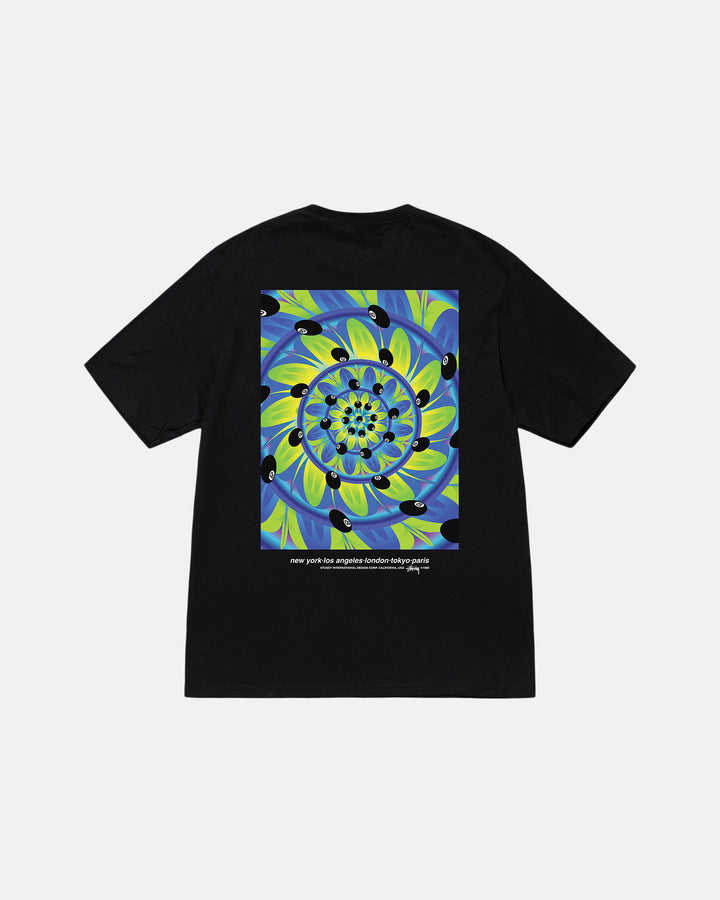
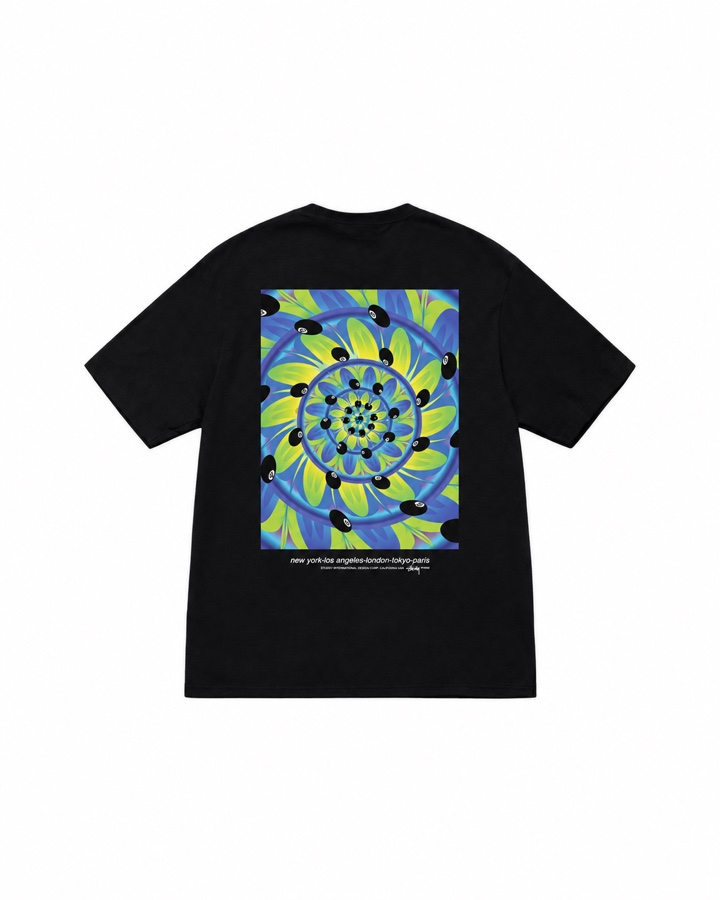
use white backgrounds for stussy product photos

Changed region(s): [[0.3361, 0.3111, 0.6417, 0.6533]]

diff --git a/wardrobe.html b/wardrobe.html
@@ -448,7 +448,7 @@
         <span class="wardrobe-name">Silently, Hwyl</span>
       </a>
       <a class="wardrobe-card" data-category="accessories" data-quantity="2" href="https://www.goat.com/sneakers/stussy-8-ball-keychain-black-138767-blac" target="_blank" rel="noopener noreferrer">
-        <img src="asset/wardrobe/stussy-8-ball-keychain.jpg" alt="" width="720" height="900" loading="lazy">
+        <img src="asset/wardrobe/stussy-8-ball-keychain.jpg?v=white" alt="" width="720" height="900" loading="lazy">
         <span class="wardrobe-card-meta">
           <strong>Stüssy</strong>
           <time datetime="2023-03-24">2023-03-24</time>
@@ -456,7 +456,7 @@
         <span class="wardrobe-name">8 Ball Keychain ×2</span>
       </a>
       <a class="wardrobe-card" data-category="tops" href="https://thepremierstore.com/products/rabbit-hole-t-shirt" target="_blank" rel="noopener noreferrer">
-        <img src="asset/wardrobe/stussy-rabbit-hole-tee.jpg" alt="" width="720" height="900" loading="lazy">
+        <img src="asset/wardrobe/stussy-rabbit-hole-tee.jpg?v=white" alt="" width="720" height="900" loading="lazy">
         <span class="wardrobe-card-meta">
           <strong>Stüssy</strong>
           <time datetime="2023-03-24">2023-03-24</time>
@@ -464,7 +464,7 @@
         <span class="wardrobe-name">Rabbit Hole Tee</span>
       </a>
       <a class="wardrobe-card" data-category="tops" href="https://www.endclothing.com/sg/stussy-bokay-pigment-dyed-tee-1904881-blac.html" target="_blank" rel="noopener noreferrer">
-        <img src="asset/wardrobe/stussy-bokay-pigment-dyed-tee.jpg" alt="" width="720" height="900" loading="lazy">
+        <img src="asset/wardrobe/stussy-bokay-pigment-dyed-tee.jpg?v=white" alt="" width="720" height="900" loading="lazy">
         <span class="wardrobe-card-meta">
           <strong>Stüssy</strong>
           <time datetime="2023-03-24">2023-03-24</time>
@@ -472,7 +472,7 @@
         <span class="wardrobe-name">Bokay Pigment Dyed Tee</span>
       </a>
       <a class="wardrobe-card" data-category="accessories" href="https://afewvibe.com/collections/stussy-1/products/stussy-sport-jacquard-skullcap-beanie-black" target="_blank" rel="noopener noreferrer">
-        <img src="asset/wardrobe/stussy-sport-jacquard-skullcap.jpg" alt="" width="720" height="900" loading="lazy">
+        <img src="asset/wardrobe/stussy-sport-jacquard-skullcap.jpg?v=white" alt="" width="720" height="900" loading="lazy">
         <span class="wardrobe-card-meta">
           <strong>Stüssy</strong>
           <time datetime="2023-02-03">2023-02-03</time>
@@ -480,7 +480,7 @@
         <span class="wardrobe-name">Sport Jacquard Skullcap Beanie</span>
       </a>
       <a class="wardrobe-card wardrobe-card-archived" data-category="accessories" href="https://www.luck-d.com/products/33836" target="_blank" rel="noopener noreferrer">
-        <img src="asset/wardrobe/stussy-surfman-keychain.jpg" alt="" width="720" height="900" loading="lazy">
+        <img src="asset/wardrobe/stussy-surfman-keychain.jpg?v=white" alt="" width="720" height="900" loading="lazy">
         <span class="wardrobe-card-meta">
           <strong>Stüssy</strong>
           <time datetime="2023-02-03">2023-02-03</time>
@@ -489,7 +489,7 @@
         <span class="wardrobe-card-status">No longer owned</span>
       </a>
       <a class="wardrobe-card" data-category="accessories" href="https://www.goat.com/apparel/stussy-basic-skullcap-beanie-cream-1321085-crea" target="_blank" rel="noopener noreferrer">
-        <img src="asset/wardrobe/stussy-basic-skullcap-cream.jpg" alt="" width="720" height="900" loading="lazy">
+        <img src="asset/wardrobe/stussy-basic-skullcap-cream.jpg?v=white" alt="" width="720" height="900" loading="lazy">
         <span class="wardrobe-card-meta">
           <strong>Stüssy</strong>
           <time datetime="2023-02-03">2023-02-03</time>
@@ -497,7 +497,7 @@
         <span class="wardrobe-name">Basic Skullcap Beanie</span>
       </a>
       <a class="wardrobe-card" data-category="tops" href="https://www.clothbase.com/items/aa2b51a2_stussy-dice-pigment-dyed-tee_stussy" target="_blank" rel="noopener noreferrer">
-        <img src="asset/wardrobe/stussy-dice-pigment-dyed-tee.jpg" alt="" width="720" height="900" loading="lazy">
+        <img src="asset/wardrobe/stussy-dice-pigment-dyed-tee.jpg?v=white" alt="" width="720" height="900" loading="lazy">
         <span class="wardrobe-card-meta">
           <strong>Stüssy</strong>
           <time datetime="2023-02-03">2023-02-03</time>
